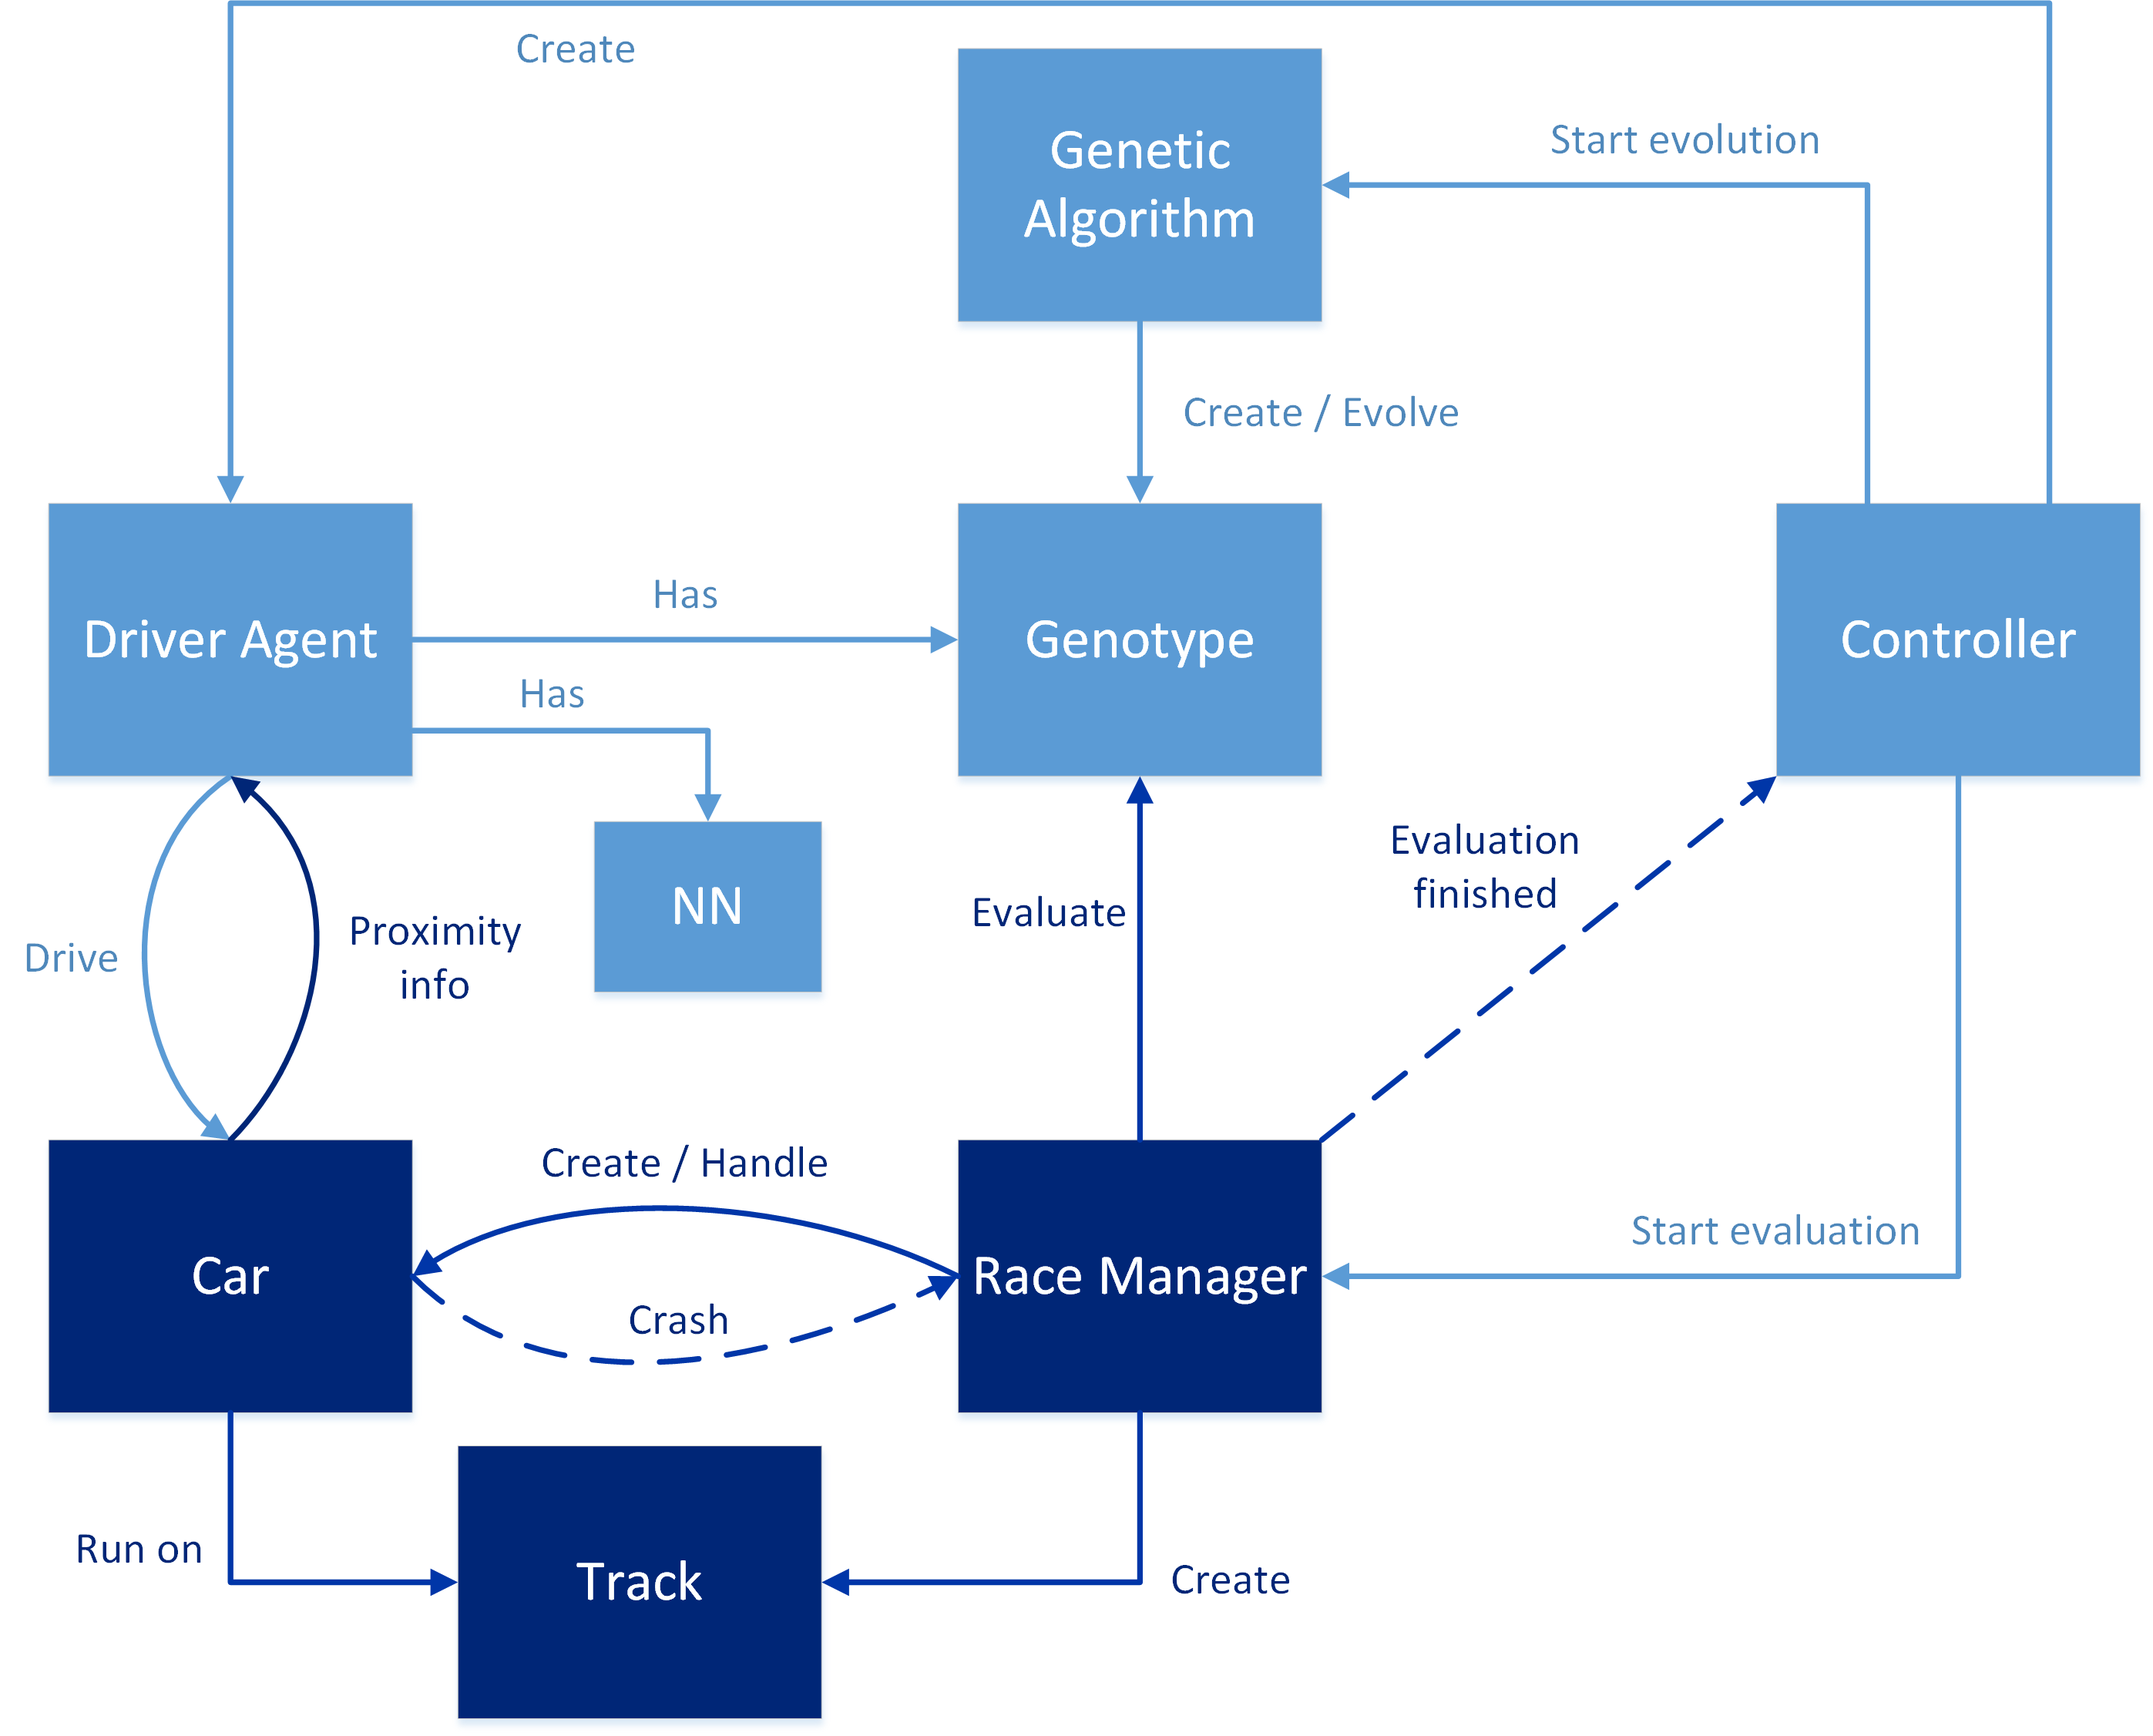
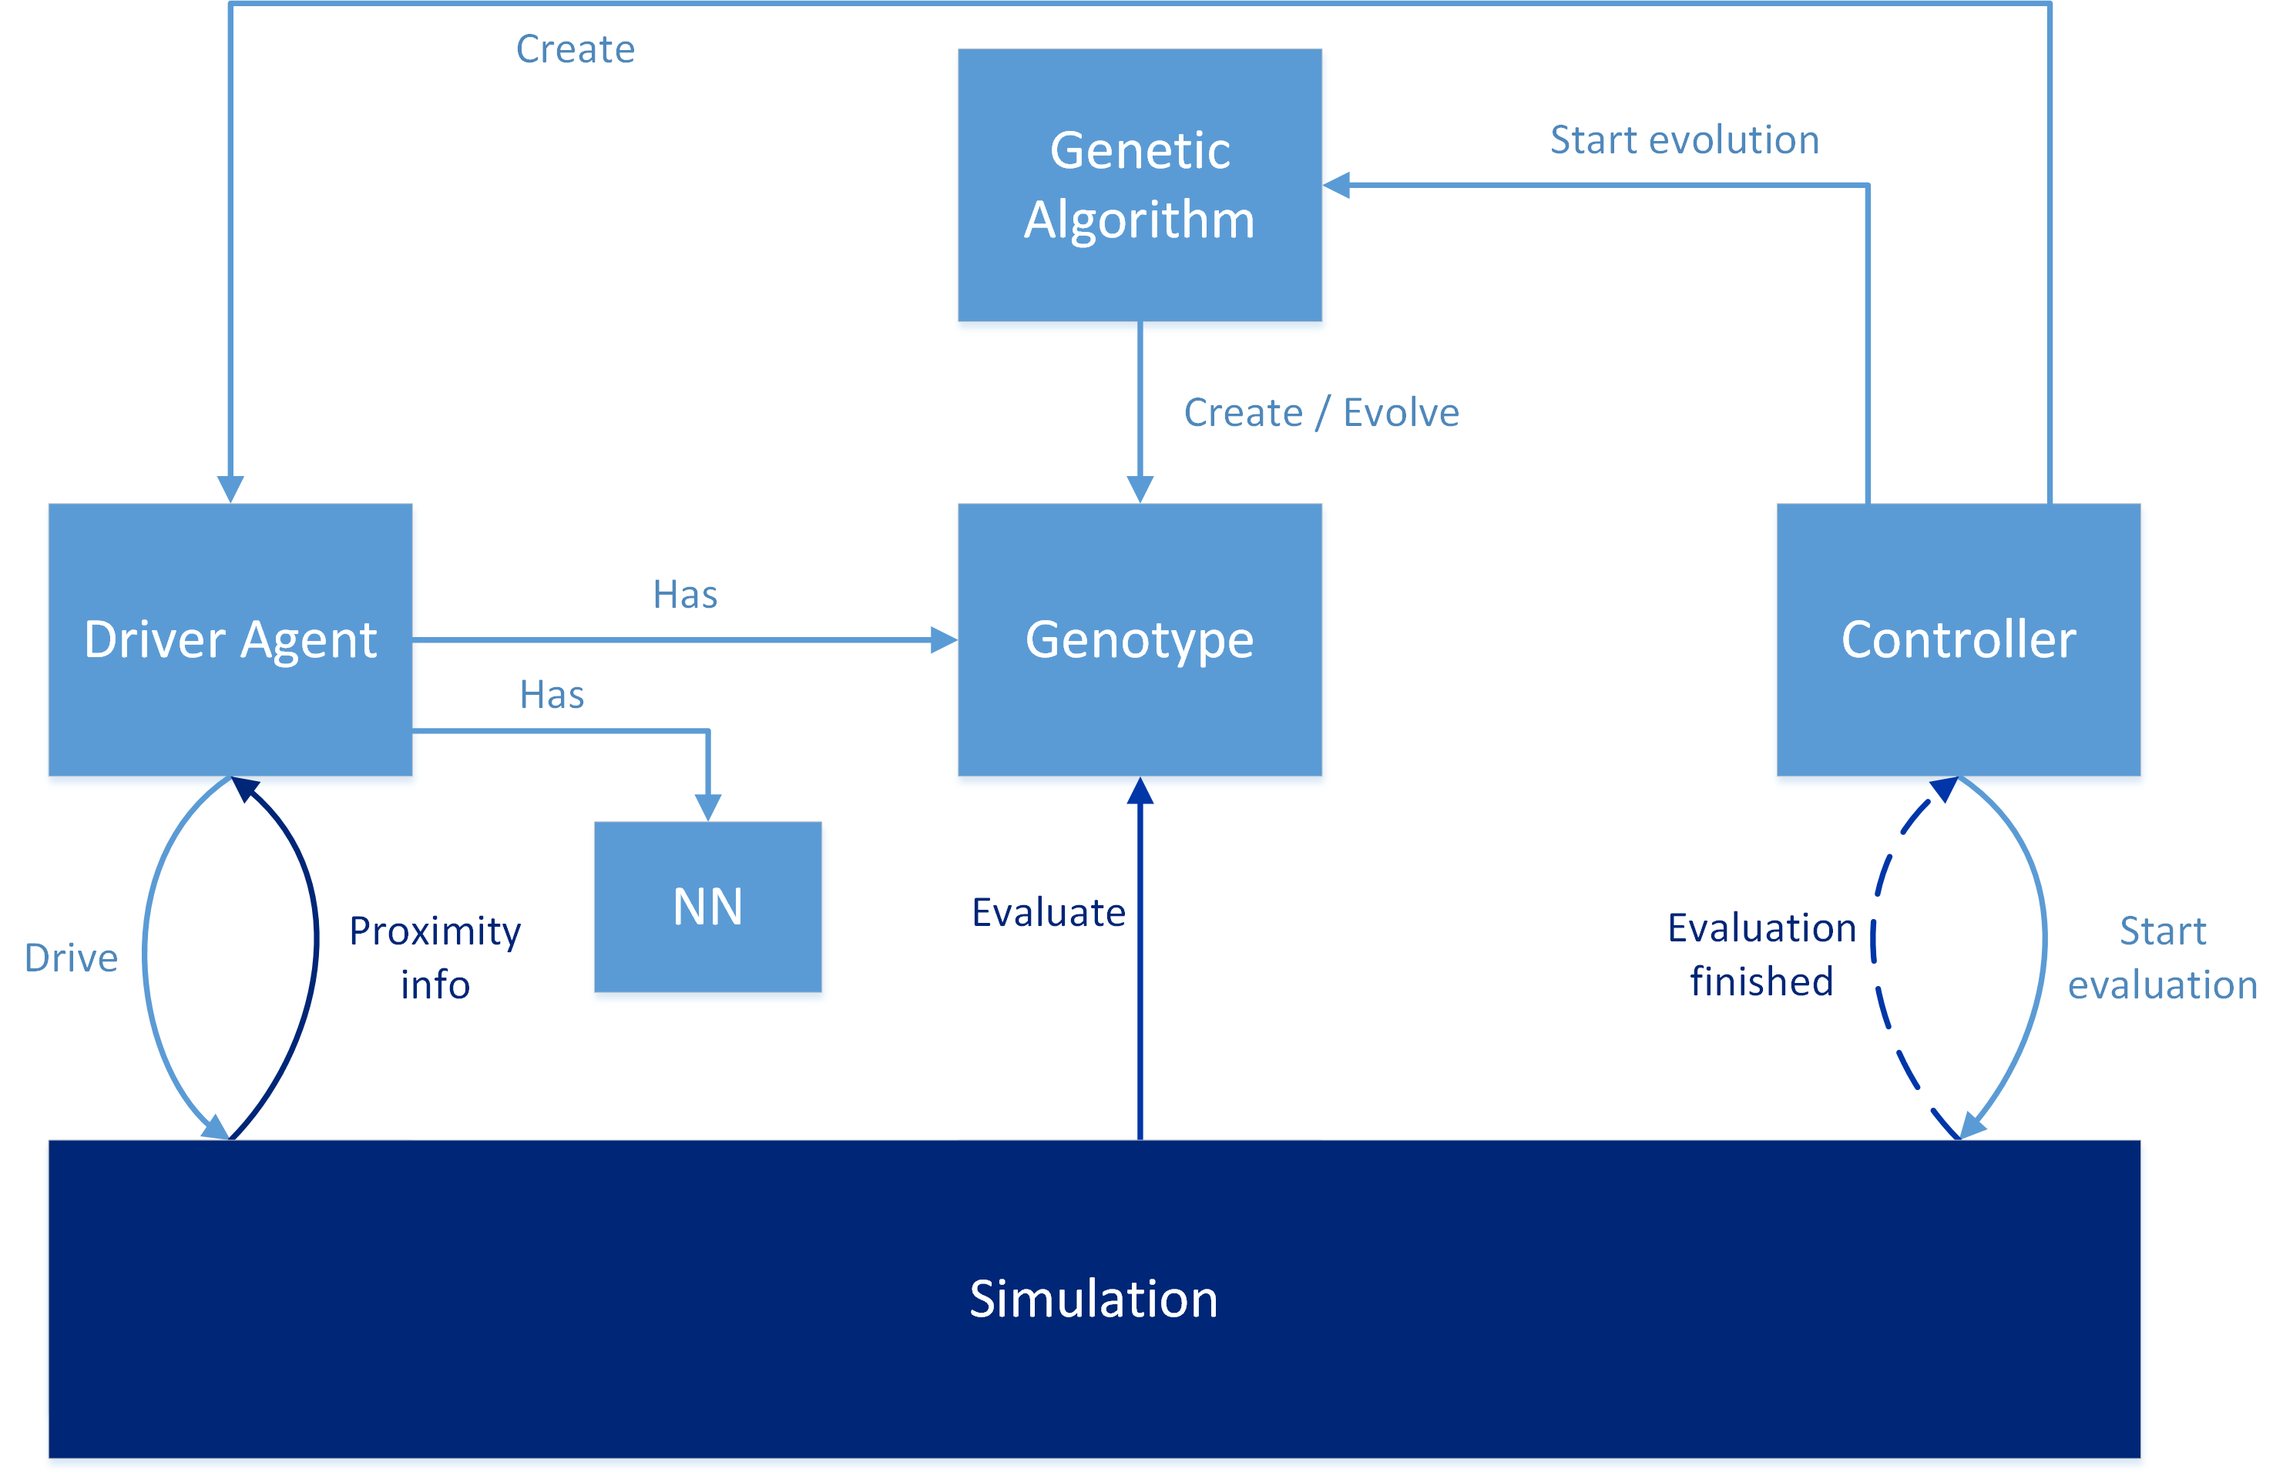
Report: architecture completed

diff --git a/report/evolutionary-cars.tex b/report/evolutionary-cars.tex
@@ -66,11 +66,11 @@ Questo documento è la relazione del progetto Evolutionary Cars, realizzato per 
 \section{Stato dell'arte}
 
 \section{Architettura}
-In questa sezione verrà illustrata l'architettura generale del sistema, rappresentata in \autoref{architecture-diagram}. La progettazione del sistema è stata effettuata in modo da isolare gli aspetti chiave da quelli relativi alla simulazione. Di conseguenza il sistema risulta suddiviso in due sottoparti principali: \emph{core} e simulazione. La parte core raggruppa al suo interno tutti i concetti del sistema che si rivelano indipendenti dall'ambiente nel quale viene eseguito il sistema. D'altro canto, la parte di simulazione si rivela necessario per permettere al sistema di adattarsi ed essere eseguito in un certo ambiente, sia esso reale o virtuale. Segue una breve descrizione dei componenti del sistema.
+In questa sezione verrà illustrata l'architettura generale del sistema. La progettazione è stata effettuata in modo da isolare gli aspetti chiave da quelli relativi alla simulazione. Di conseguenza, il sistema risulta suddiviso in due sottoparti principali: \emph{core} e simulazione. La parte core raggruppa al suo interno tutti i concetti del sistema che si rivelano indipendenti dall'ambiente nel quale esso viene eseguito. D'altro canto, la parte di simulazione si rivela necessaria per permettere al sistema di adattarsi ed essere eseguito in un certo ambiente, sia esso reale o virtuale. Segue una breve descrizione dei componenti del sistema.
 \begin{description}
-	\item[Driver Agent] entità preposta alla guida di un'auto. Indipendentemente dall'implementazione della \emph{Car}, determina la potenza del motore e la direzione di sterzata della stessa, a partire dalle informazioni relative alla distanza dai muri del circuito. Ogni decisione che incide sul movimento dell'auto è determinata da una rete neurale interna, i cui pesi sono regolati in modo da aderire al genotipo dell'agente.
+	\item[Driver Agent] entità preposta alla guida di un'auto. Indipendentemente dall'implementazione e dalla natura del veicolo, determina la potenza del motore e la direzione di sterzata dello stesso, a partire dalle informazioni relative alla distanza dai muri del circuito. Ogni decisione che incide sul movimento dell'auto è determinata da una rete neurale interna, i cui pesi sono regolati in modo da aderire al genotipo dell'agente.
 	\item[Neural Network] rete neurale feedforward utilizzata per pilotare un'auto. Riceve in input cinque valori di prossimità, che descrivono lo stato dell'auto in relazione ai muri del circuito, e produce in output forza motore e direzione dello spostamento successivo. I pesi della rete sono inizialmente definiti in modo casuale, per poi essere adattati in corso d'opera in seguito all'evoluzione del genotipo corrispondente.
-	\item[Genotype] Insieme di informazioni che contraddistinguono il comportamento di un'auto da un'altra. In particolare, contiene i pesi da assegnare alla \emph{neural network} di un particolare agente.
+	\item[Genotype] Insieme di informazioni che contraddistinguono il comportamento di un'auto da un'altro. In particolare, contiene i pesi da assegnare alla \emph{neural network} di un particolare agente.
 	\item[Genetic Algorithm] algoritmo finalizzato all'evoluzione dei genotipi da una generazione alla successiva. Si compone delle fasi di selezione, crossover e mutazione, che saranno discusse nel dettaglio in \autoref{evolution}.
 	\item[Controller] può essere definito come il collante tra le parti di core e simulazione del sistema. Si occupa inizialmente di istanziare l'algoritmo genetico ed un insieme di driver agent. È responsabile dell'avvio del processo di \emph{evaluation} dei genotipi, interagendo con un componente relativo alla gestione della parte di simulazione. Al termine di tale processo viene notificato, in modo da poter poi provvedere all'avvio della fase di evoluzione, interagendo con l'algoritmo genetico.
 \end{description}
@@ -79,12 +79,17 @@ In \autoref{architecture-diagram} è illustrato un diagramma che descrive, in ma
 \begin{figure}[H]
 	\centering
 	\includegraphics[width=130mm]{./img/architecture.png}
-	\caption{Diagramma informale che rappresenta le relazioni tra i componenti che formano l'architettura del sistema. Nella notazione utilizzata, le frecce tratteggiate indicano una notifica dell'avvenimento di un certo evento, a differenza delle frecce continue che si riferiscono a relazioni di dipendenza. Nel diagramma i componenti caratterizzati da un colore più scuro sono quelli relativi alla simulazione, distinguibili dai restanti che costituiscono invece il \emph{core} del sistema.  \label{architecture-diagram}}
+	\caption{Diagramma informale che rappresenta le relazioni tra i componenti che formano l'architettura del sistema. Nella notazione utilizzata, le frecce tratteggiate indicano una notifica dell'avvenimento di un certo evento, a differenza delle frecce continue che si riferiscono a relazioni di dipendenza. Nel diagramma sono rappresentati solamente i componenti relativi alla parte \emph{core} del sistema; quelli relativi alla simulazione non sono trattati in questo diagramma e sono, perciò, stati collassati nel blocco \emph{Simulation}.  \label{architecture-diagram}}
 \end{figure}
 
 \section{Evoluzione} \label{evolution}
 
 \section{Simulazione} \label{simulation}
+\begin{figure}[H]
+	\centering
+	\includegraphics[width=130mm]{./img/architecture-simulation.png}
+	\caption{Diagramma informale che rappresenta le relazioni tra i componenti che formano l'architettura del sistema. Nella notazione utilizzata, le frecce tratteggiate indicano una notifica dell'avvenimento di un certo evento, a differenza delle frecce continue che si riferiscono a relazioni di dipendenza. Nel diagramma i componenti caratterizzati da un colore più scuro sono quelli relativi alla simulazione, distinguibili dai restanti che costituiscono invece il \emph{core} del sistema.  \label{architecture}}
+\end{figure}
 
 \section{Risultati}
 
